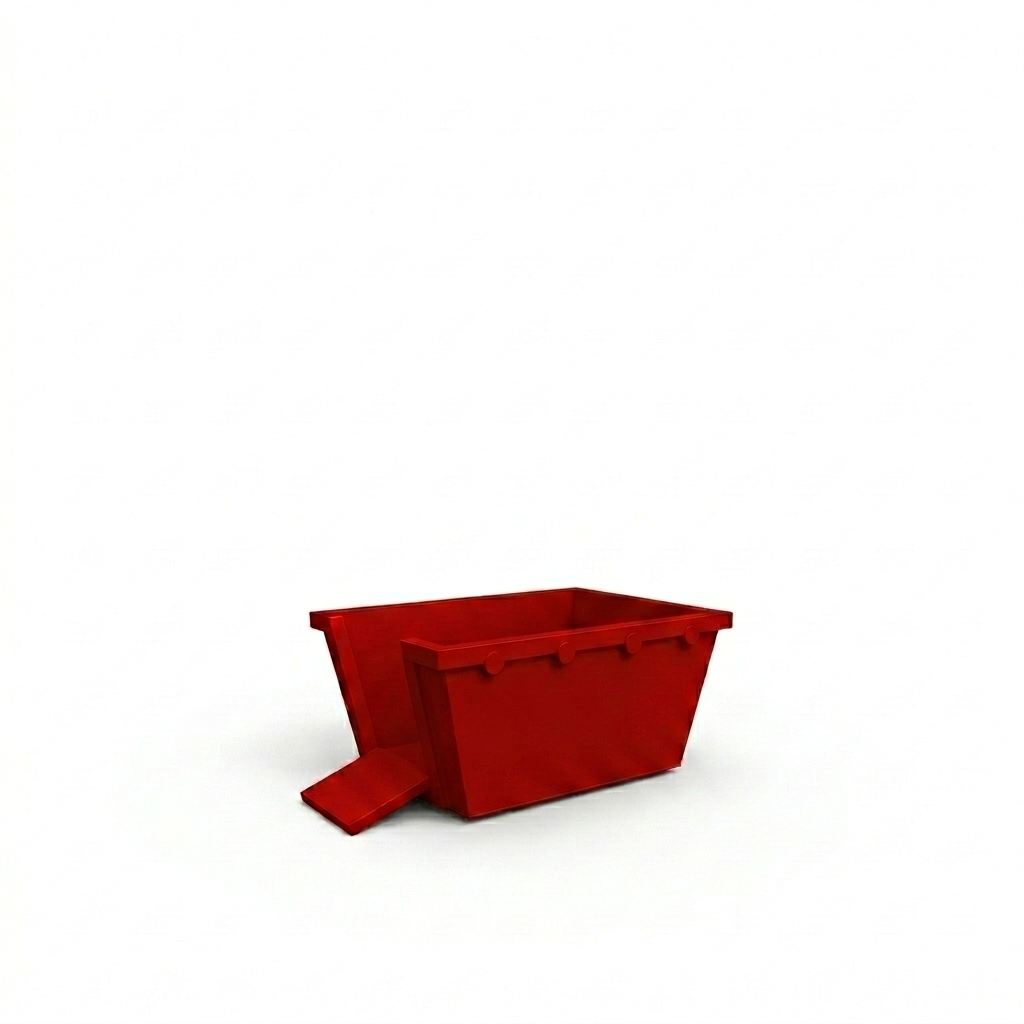
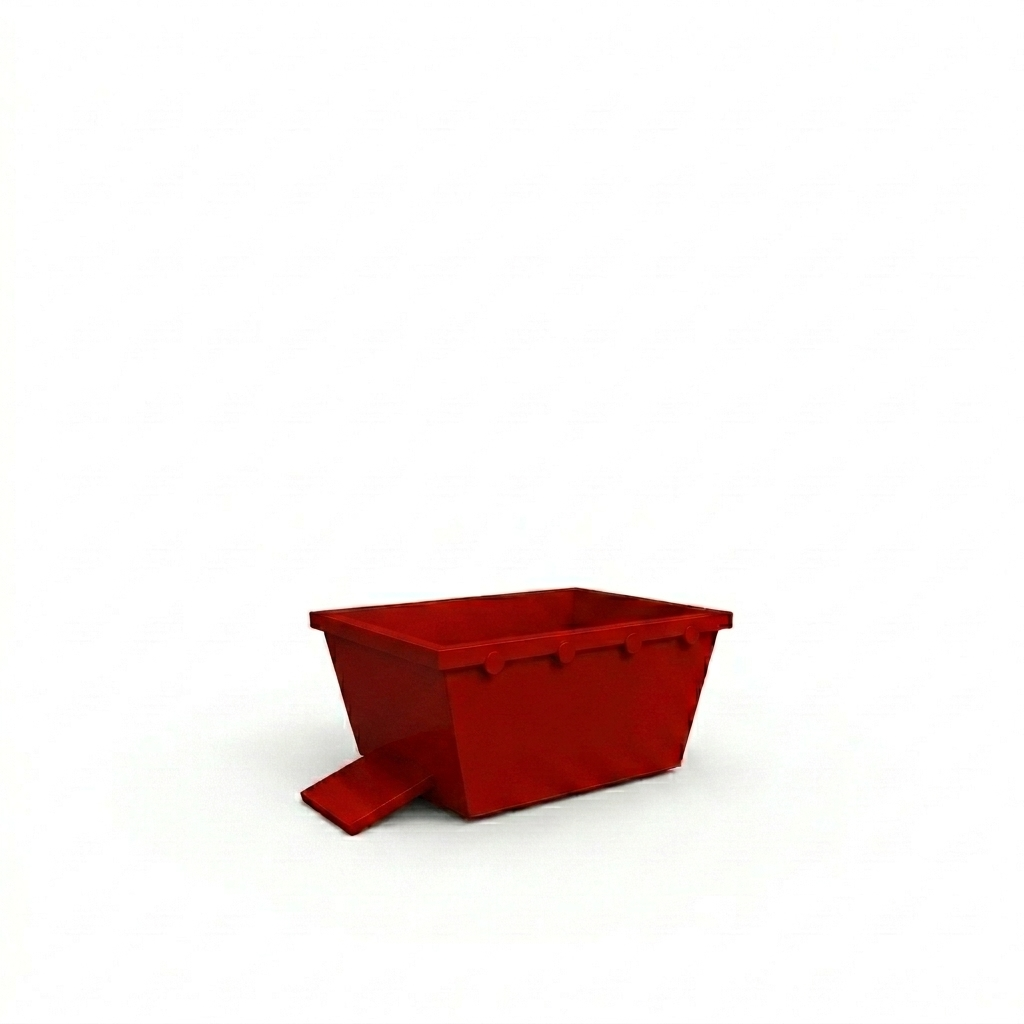
auto-commit for 9737ec36-e1e8-4a8c-ad78-f2684a48f59b

Changed region(s): [[0.3125, 0.5938, 0.4375, 0.7812]]

diff --git a/backend/scripts/remove_2m_door.py b/backend/scripts/remove_2m_door.py
@@ -1,0 +1,60 @@
+"""Remove ONLY the front door panel from the 2m³ bin.
+
+Keep everything else: the small angled ramp/chute, the bin body, the ground
+shadow, the colour, the perspective and the background.
+"""
+import asyncio
+import base64
+import os
+from dotenv import load_dotenv
+from emergentintegrations.llm.chat import LlmChat, UserMessage, ImageContent
+
+load_dotenv("/app/backend/.env")
+API_KEY = os.getenv("EMERGENT_LLM_KEY")
+assert API_KEY
+
+SRC = "/app/frontend/public/skip-bin-2m.png"
+
+PROMPT = (
+    "This is a red Marrel-style hook-lift skip bin. KEEP everything in the "
+    "image EXACTLY the same — same red colour (#bf0403), same 3/4 perspective, "
+    "same bin size, same position in frame, same proportions, same small "
+    "angled loading ramp/chute on the bottom-left (DO NOT remove the ramp), "
+    "same ground shadow, same pure white background. DO NOT change anything "
+    "else.\n\n"
+    "The ONLY change required: REMOVE the upright rectangular DOOR PANEL that "
+    "currently sits in front of / against the front-left face of the bin body. "
+    "This door panel has visible vertical seam lines and looks like a hinged "
+    "access door. Remove that panel entirely so the front-left face of the bin "
+    "body becomes one smooth, uninterrupted red surface with NO vertical seams "
+    "and NO panel outlines.\n\n"
+    "Important: KEEP the small angled chute/ramp at the bottom-left that "
+    "rests on the ground at an angle. That ramp is correct and must stay. "
+    "Only the upright door panel needs to be removed.\n\n"
+    "Output a single cleaned-up image preserving the original style exactly."
+)
+
+
+async def main():
+    with open(SRC, "rb") as f:
+        ref_b64 = base64.b64encode(f.read()).decode("utf-8")
+    chat = LlmChat(
+        api_key=API_KEY,
+        session_id="skip-bin-2m-door-removal",
+        system_message="You carefully edit product render images.",
+    ).with_model("gemini", "gemini-3.1-flash-image-preview").with_params(
+        modalities=["image", "text"]
+    )
+    msg = UserMessage(text=PROMPT, file_contents=[ImageContent(ref_b64)])
+    text, images = await chat.send_message_multimodal_response(msg)
+    if not images:
+        print(f"No image returned. text: {(text or '')[:200]}")
+        return
+    image_bytes = base64.b64decode(images[0]["data"])
+    with open(SRC, "wb") as f:
+        f.write(image_bytes)
+    print(f"DOOR REMOVED -> {SRC} ({len(image_bytes)} bytes)")
+
+
+if __name__ == "__main__":
+    asyncio.run(main())
